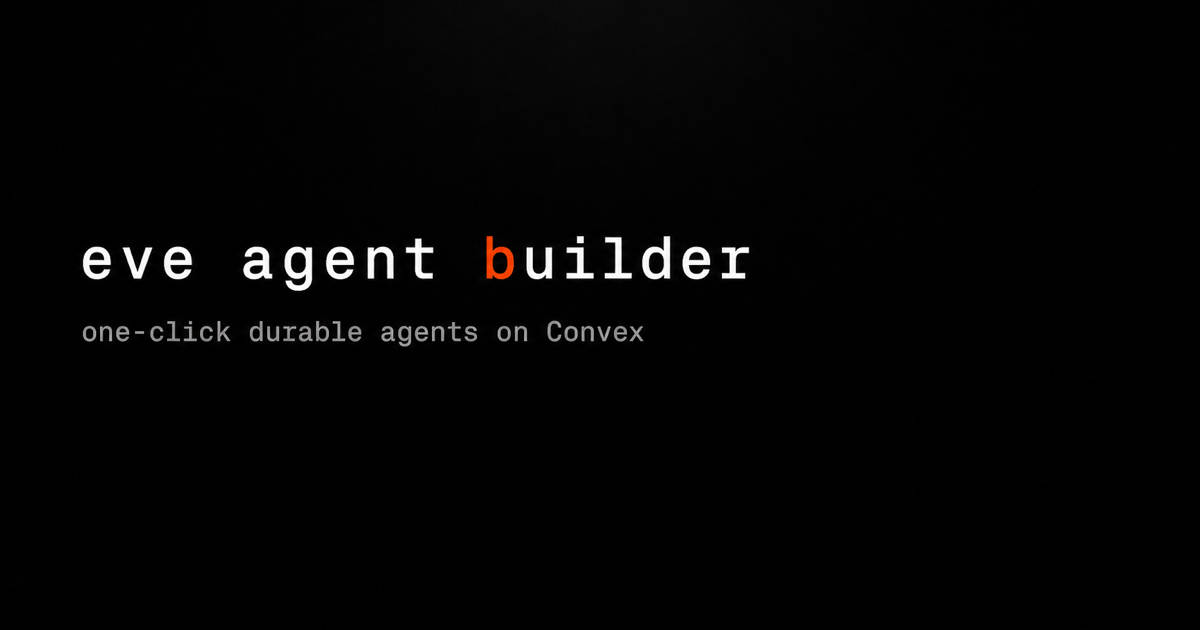
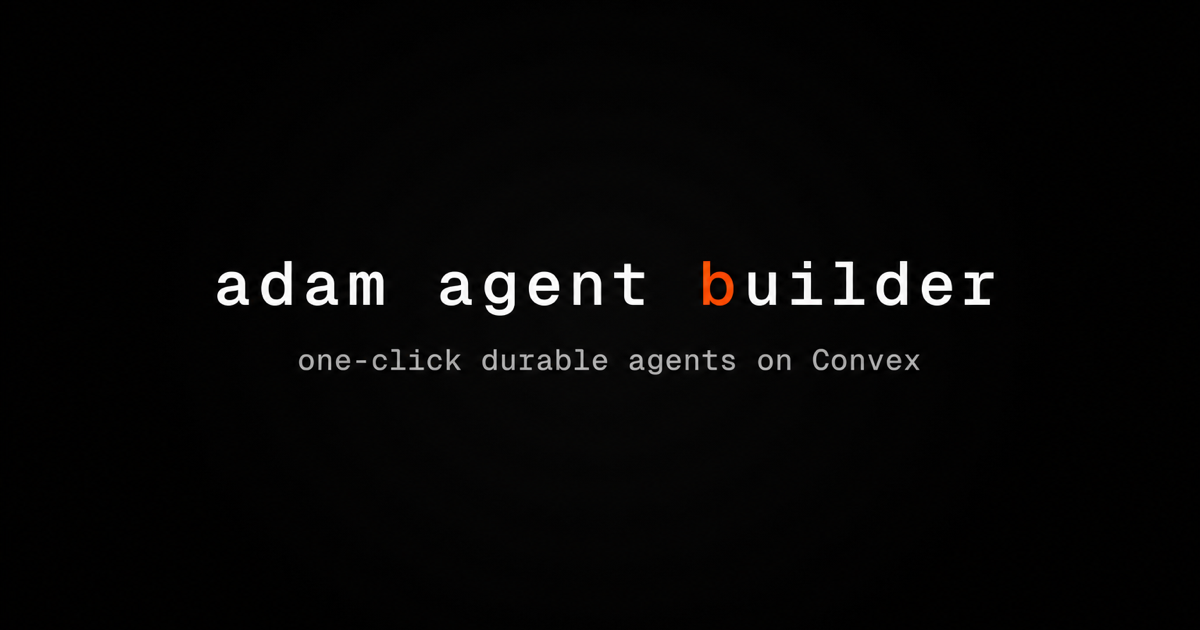
Rebrand share assets to adam agent builder; add Vercel Analytics
Regenerate the OG card and metadata copy for the adam rename, align
platform/root README titles, and inject Vercel Web Analytics in the
builder Vite entry (same pattern as apps/web).

Changed region(s): [[0.0617, 0.3619, 0.8325, 0.6032]]

diff --git a/platform/builder-web/index.html b/platform/builder-web/index.html
@@ -6,7 +6,7 @@
     <title>adam agent builder — one-click durable agents on Convex</title>
     <meta
       name="description"
-      content="Configure an eve agent — model, instructions, tools, schedules — and one-click deploy it to its own Convex project: chat UI, durable workflows, HITL approvals and crons included."
+      content="Configure an agent — model, instructions, tools, schedules — and one-click deploy it to its own Convex project: chat UI, durable workflows, HITL approvals and crons included."
     />
 
     <link rel="icon" type="image/png" sizes="32x32" href="/favicon.png" />
@@ -21,7 +21,7 @@
     <meta property="og:title" content="adam agent builder — one-click durable agents on Convex" />
     <meta
       property="og:description"
-      content="Configure an eve agent and one-click deploy it to its own Convex project — chat UI, durable workflows, tools, HITL approvals and cron schedules included."
+      content="Configure an agent and one-click deploy it to its own Convex project — chat UI, durable workflows, tools, HITL approvals and cron schedules included."
     />
     <meta property="og:url" content="https://rosy-goldfish-504.convex.site/" />
     <meta property="og:image" content="https://rosy-goldfish-504.convex.site/og.png" />
@@ -33,7 +33,7 @@
     <meta name="twitter:title" content="adam agent builder — one-click durable agents on Convex" />
     <meta
       name="twitter:description"
-      content="Configure an eve agent and one-click deploy it to its own Convex project — chat UI, durable workflows, tools, HITL approvals and cron schedules included."
+      content="Configure an agent and one-click deploy it to its own Convex project — chat UI, durable workflows, tools, HITL approvals and cron schedules included."
     />
     <meta name="twitter:image" content="https://rosy-goldfish-504.convex.site/og.png" />
     <style>

diff --git a/platform/builder-web/src/main.ts b/platform/builder-web/src/main.ts
@@ -1,6 +1,12 @@
+import { inject } from "@vercel/analytics";
 import { mount } from "svelte";
 import App from "./App.svelte";
 import "./app.css";
+
+// Vercel Web Analytics (plain-Vite variant of injectAnalytics). Pageviews
+// post to /_vercel/insights/* — live when the site is served via Vercel;
+// harmless no-op elsewhere (e.g. Convex static hosting).
+inject({ mode: import.meta.env.DEV ? "development" : "production" });
 
 const app = mount(App, {
   target: document.getElementById("app")!,

diff --git a/platform/README.md b/platform/README.md
@@ -1,8 +1,8 @@
-# eve agent builder
+# adam agent builder
 
-Configure an eve agent in a dashboard, click **Deploy**, get a live agent on
-its own Convex project — chat UI, durable workflows, tools, HITL approvals,
-cron schedules and all.
+Configure an agent in a dashboard, click **Deploy**, get a live agent on its
+own Convex project — chat UI, durable workflows, tools, HITL approvals, cron
+schedules and all.
 
 ```
 platform/

diff --git a/README.md b/README.md
@@ -61,7 +61,7 @@ server. One Convex deployment runs and stores everything:
 | `packages/world-convex` | Implementation of `@workflow/world` (Storage + Queue + Streamer) backed by the Convex deployment. Compiled into the eve bundle via `experimental.workflow.world` |
 | `apps/agent` | The eve project: agent definition, Convex-backed tools (`save_note`, `list_notes`, `clear_notes` w/ HITL approval, `workflow_stats`, `get_time`, `simulate_long_task` for chunked long work), heartbeat schedule. Built with `eve build`, never started as a server |
 | `apps/web` | Svelte 5 + convex-svelte dashboard: chat with the agent (streaming + HITL), live notepad, run/step/event/stream observability |
-| `platform/*` | The **agent builder**: configure an agent (model, instructions, tools, schedule) in a dashboard and one-click deploy it to its own Convex project, with stuck deploy/delete job recovery (reaper cron, cancel, worker heartbeat). See [platform/README.md](platform/README.md) |
+| `platform/*` | The **adam agent builder**: configure an agent (model, instructions, tools, schedule) in a dashboard and one-click deploy it to its own Convex project, with stuck deploy/delete job recovery (reaper cron, cancel, worker heartbeat). See [platform/README.md](platform/README.md) |
 
 ## How the port works
 